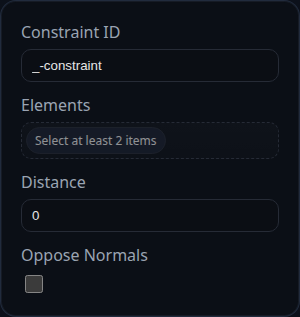
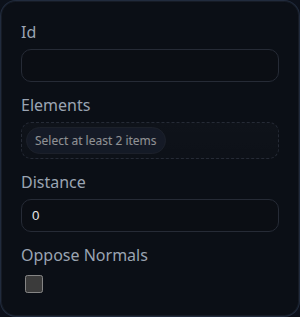
Docs update

Changed region(s): [[0.06, 0.0852, 0.42, 0.142], [0.12, 0.1987, 0.36, 0.2271]]

diff --git a/docs/inspector.md b/docs/inspector.md
@@ -1,0 +1,47 @@
+# Inspector
+
+The Inspector is a diagnostic window for answering *“What exactly did I just click?”*. It is meant for troubleshooting mesh issues, confirming the owning feature of a face, or exporting precise coordinates for support requests.
+
+- The `🧪` button on the main toolbar toggles the panel. The window floats near the lower-left corner, can be dragged or resized, and stays on top of the viewport so you can keep modeling.
+- When the panel opens it shows a placeholder message. Click any entity in the scene (face, edge, or solid) and the Inspector immediately refreshes with the latest selection.
+- The header contains `Download JSON` for a full dump of the current payload (including data that is truncated in the UI) and `Hide` to close the window without clearing the cached selection.
+
+## Reading the panel
+
+Each selection is rendered with the `Object Inspector` tree component, so you can:
+
+- Expand or collapse sections, or use the search box to filter by key/path.
+- Copy the visible JSON or download a complete copy for offline debugging.
+- Watch for formatted helpers such as `Created by: FeatureID`, `123 units²`, or `123 units` at the top level for quick glances.
+
+> Many expensive sections (triangles, points, vertex lists) are lazily computed and only fetched when you expand them. When a preview lists “Truncated”, click `Download JSON` to export everything.
+
+## Data per selection type
+
+### Faces
+
+- **Triangles** – summarized counts with normals and areas. Expanding streams a capped list for UI safety; the download contains the entire face mesh.
+- **Edges** – the loops bordering the face, including whether an edge is a closed loop, its approximate length, and the names of neighboring faces.
+- **Unique vertices** – lazily generated set of world-space coordinates extracted from the triangle list.
+- **Metrics** – formatted surface area, average normal, bounding-box preview, and the owning feature id when available.
+- **Neighbors and boundary loops** – lists of adjacent faces plus optional hole/outer-loop polygons supplied by face metadata.
+
+### Edges
+
+- **Length + closure** – precise length read via the edge object plus a `closedLoop` flag when the edge wraps on itself.
+- **Adjacent faces** – the names (or ids) of touching faces, useful when debugging history or PMI layers.
+- **Sample points** – world-space polylines used to draw the edge, fetched only when the section expands.
+
+### Solids
+
+- **Face roster** – first 10 faces with their triangle counts plus a total count so you can spot unexpectedly dense solids.
+- **Mesh stats** – vertex count, triangle count, and the source of the data (either Manifold’s mesh or the authoring arrays). Bounding boxes are computed from the raw vertex positions.
+- **Triangle preview** – capped list of triangle data (indices, positions, normals, owning face id/name) with lazy evaluation; the download button produces the full, uncapped dataset.
+- **Topology diagnostics** – manifold/boundary checks that report degenerate triangles, edges used by fewer or more than two faces, and isolated vertices so you can locate bad imports.
+- **Volume & surface area** – when the underlying `SOLID` exposes `volume()` or `surfaceArea()` the panel surfaces the numeric values for quick measurements.
+
+## Usage tips
+
+- Keep the Inspector open while modeling; every click refreshes instantly, so you can inspect multiple faces without re-opening the window.
+- Use the panel in tandem with the Selection Filter to temporarily expose PMI references, sketches, or assembly items and confirm their metadata.
+- When reporting an issue, include the JSON downloaded from the Inspector so maintainers receive the same diagnostic snapshot you saw in the UI.

diff --git a/docs/assembly-constraints/solver.md b/docs/assembly-constraints/solver.md
@@ -10,7 +10,7 @@ The assembly constraint solver manages constraint instances attached to an assem
 - `src/assemblyConstraints/BaseAssemblyConstraint.js` – base class that exposes shared helpers and metadata conventions for concrete constraints.
 
 ## Runtime Flow
-- Every constraint entry carries a `type`, `inputParams`, and `persistentData`. Defaults come from the constraint's `inputParamsSchema`, and each entry receives an auto-generated `constraintID` (for example `COIN12`).
+- Every constraint entry carries a `type`, `inputParams`, and `persistentData`. Defaults come from the constraint's `inputParamsSchema`, and each entry receives an auto-generated `id` (for example `COIN12`).
 - `AssemblyConstraintHistory.runAll()` is the primary entry point. It validates entries, removes disabled constraints, detects duplicates before instantiating anything, and then constructs one runtime instance per constraint.
 - During each iteration the solver calls `solve(context)` (or `run(context)` for legacy classes) on every instance. A constraint may mark itself satisfied, request additional adjustments, or block if both components are fixed.
 - When a constraint applies a motion it must call `context.applyTranslation(component, vector)` or `context.applyRotation(component, quaternion)`, both of which update the component transform and record that the component needs to be synced back to feature data.

diff --git a/docs/assembly-constraints/distance-constraint.md b/docs/assembly-constraints/distance-constraint.md
@@ -7,7 +7,7 @@ Status: Implemented
 Distance constraints maintain a target separation between two references. They support point/point, point/edge, point/face, edge/edge, and face/face combinations and will translate components until the measured offset matches the requested distance.
 
 ## Inputs
-- `constraintID` – unique label used across the solver UI and logs.
+- `id` – unique label used across the solver UI and logs.
 - `elements` – two references (faces, edges, or vertices). Component references are treated as points at their representative location.
 - `distance` – desired separation in scene units. Negative input is clamped to zero.
 - `opposeNormals` – for face-to-face alignment, flips the normal on the second selection before the parallel alignment stage.

diff --git a/docs/assembly-constraints/coincident-constraint.md b/docs/assembly-constraints/coincident-constraint.md
@@ -7,7 +7,7 @@ Status: Implemented
 The coincident constraint brings two references to the same world-space location by translating their owning components. It is the general-purpose mate used for points, edges, faces, or whole components.
 
 ## Inputs
-- `constraintID` – unique identifier generated by the history; used for UI labels and debugging.
+- `id` – unique identifier generated by the history; used for UI labels and debugging.
 - `elements` – exactly two selections (vertex, edge, face, or component). The solver resolves each selection to a world-space point before measuring the gap.
 - `applyImmediately` – legacy flag populated by the UI; the iterative solver ignores it.
 - `faceNormalOpposed` – reserved for future expansion and currently unused.

diff --git a/docs/assembly-constraints/parallel-constraint.md b/docs/assembly-constraints/parallel-constraint.md
@@ -7,7 +7,7 @@ Status: Implemented
 Parallel constraints align the directions of two faces, edges, or components. They are the primary orientation tool for planar or cylindrical features that must stay parallel without requiring contact.
 
 ## Inputs
-- `constraintID` – unique identifier surfaced in the UI.
+- `id` – unique identifier surfaced in the UI.
 - `elements` – two selections (faces, edges, or components). Each selection must resolve to a direction vector.
 - `applyImmediately` – historical flag retained for UI compatibility; the solver always iterates instead of applying a single shot correction.
 - `reverse` – toggles the stored orientation preference so the constraint can align outward-facing normals instead of inward-facing normals.

diff --git a/docs/assembly-constraints/angle-constraint.md b/docs/assembly-constraints/angle-constraint.md
@@ -7,7 +7,7 @@ Status: Implemented
 Angle constraints rotate components until the measured angle between two references matches a specified target. They work on face normals or edge directions and are ideal for setting hinge offsets or maintaining draft angles during assembly.
 
 ## Inputs
-- `constraintID` – solver-assigned identifier (for example `ANGL3`).
+- `id` – solver-assigned identifier (for example `ANGL3`).
 - `elements` – two selections. Faces use their resolved normals; edges use the edge direction extracted from geometry.
 - `angle` – desired signed angle in degrees. The implementation normalises the value to the `[-360, 360]` range before solving.
 

diff --git a/docs/assembly-constraints/touch-align-constraint.md b/docs/assembly-constraints/touch-align-constraint.md
@@ -7,7 +7,7 @@ Status: Experimental
 Touch Align constraints drive two like-kind references into contact while also aligning their orientations. They extend the parallel alignment logic with a translation phase so the selected entities share the same location in space.
 
 ## Inputs
-- `constraintID` – solver-generated identifier (for example `TALN5`).
+- `id` – solver-generated identifier (for example `TALN5`).
 - `elements` – two selections of the same kind (face/face, edge/edge, or point/point). Mixed types are rejected.
 - `reverse` – flips the stored orientation preference, mirroring the behaviour of the Parallel constraint.
 

diff --git a/docs/assembly-constraints/fixed-constraint.md b/docs/assembly-constraints/fixed-constraint.md
@@ -7,7 +7,7 @@ Status: Implemented
 Fixed constraints lock an assembly component in place so other constraints treat it as immovable. They usually provide the reference frame that every other constraint solves against.
 
 ## Inputs
-- `constraintID` – solver-assigned identifier that appears in the constraint list.
+- `id` – solver-assigned identifier that appears in the constraint list.
 - `component` – single component selection. No other entity types are accepted.
 
 ## Behaviour

diff --git a/README.md b/README.md
@@ -23,7 +23,7 @@ This project is actively evolving; expect rough edges while APIs settle.
 - [File Formats: Import and Export](docs/file-formats.md)
 - [Plugins and Examples](docs/plugins.md)
 - [Recent Inspector Improvements](docs/inspector-improvements.md)
-- [Inspector Todo](docs/todo.md)
+- [Inspector](docs/inspector.md)
 
 ## Using as an npm package
 
